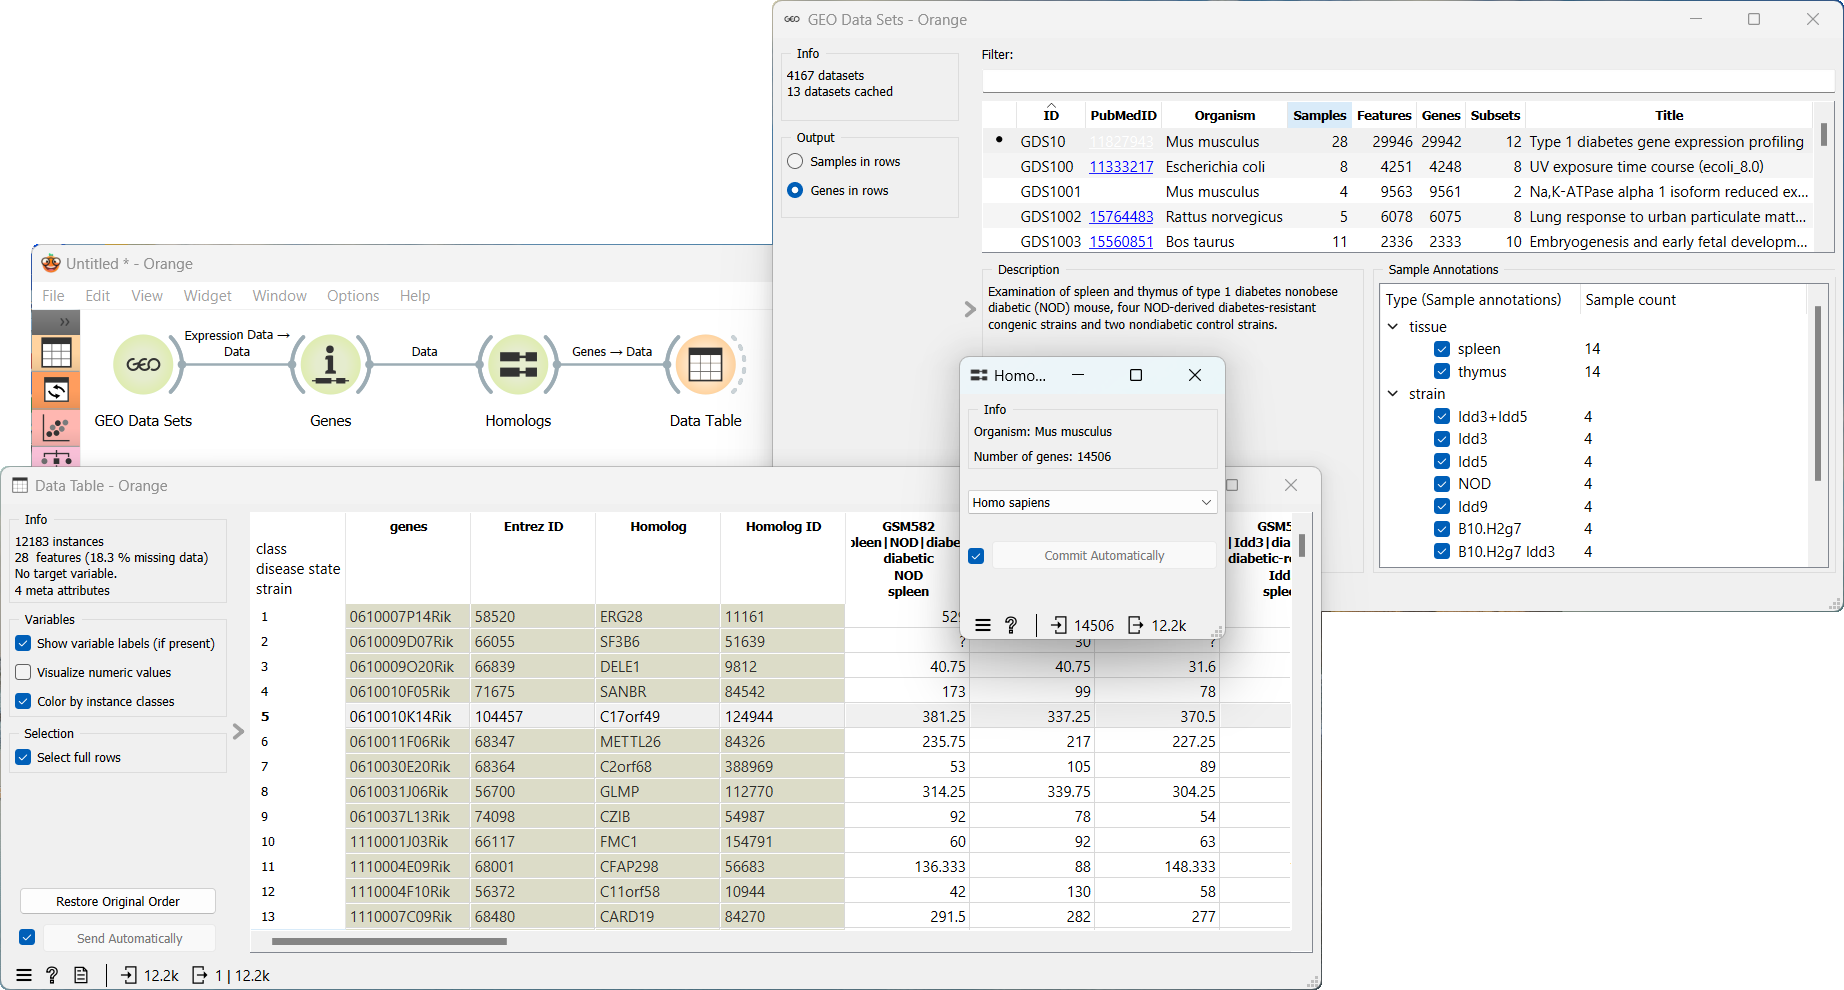
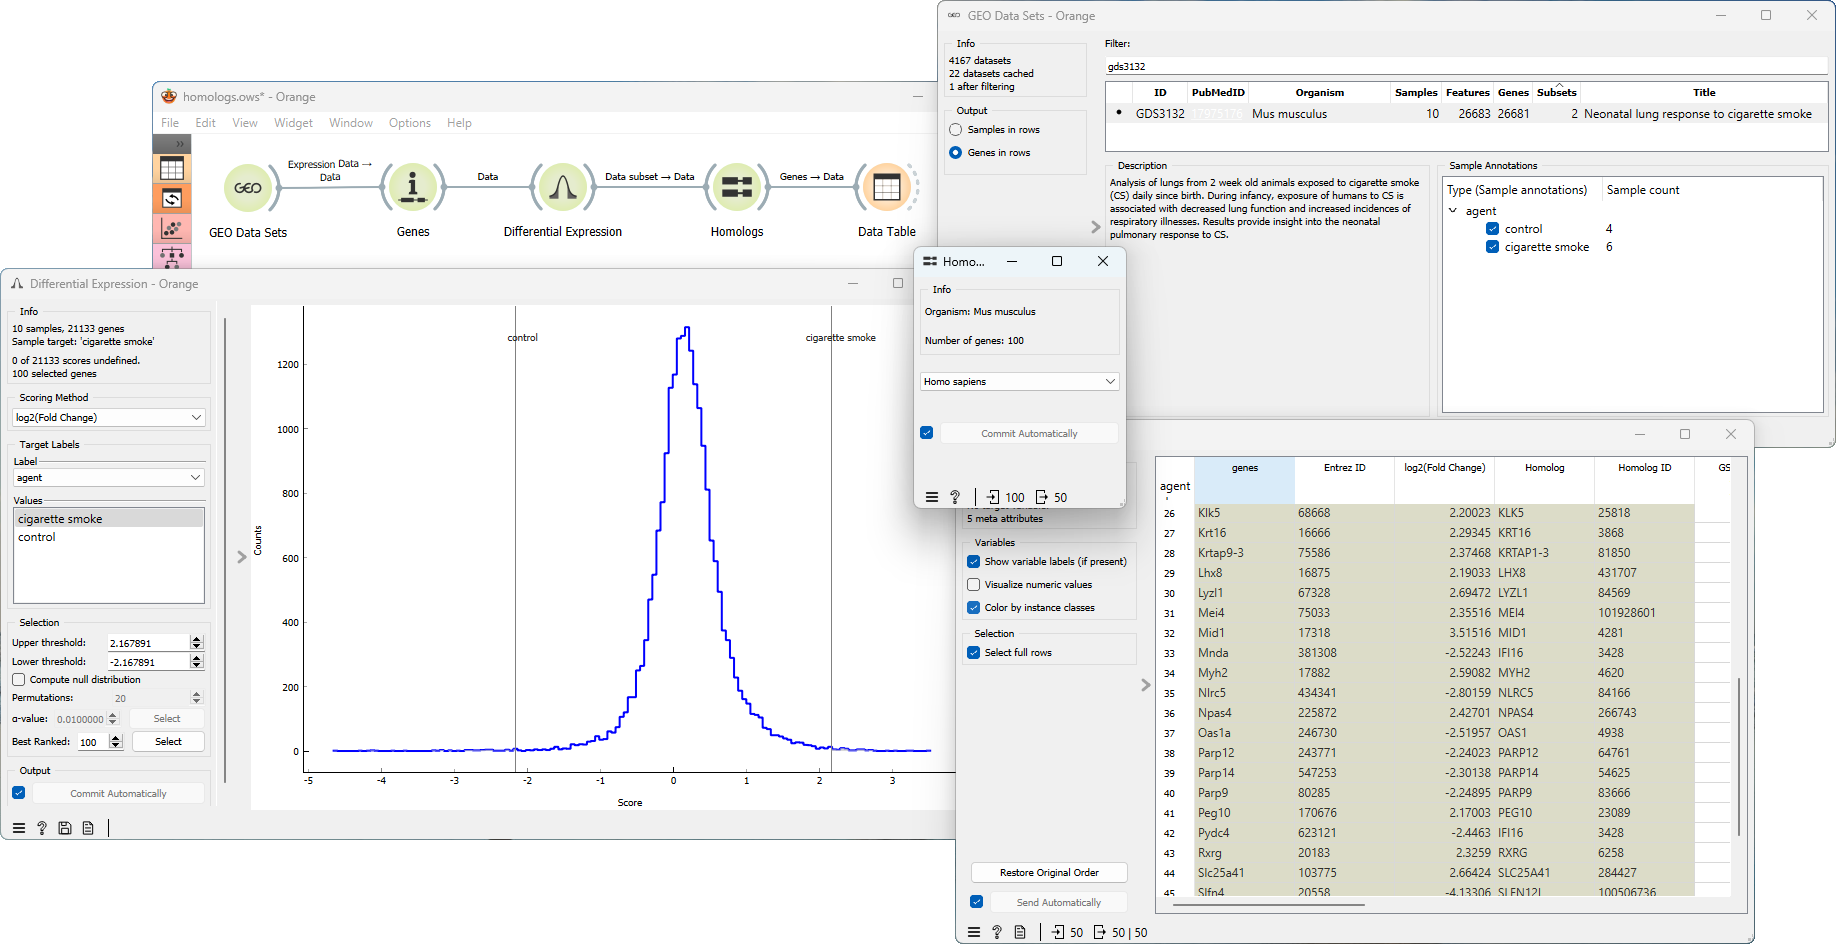
Updated homologs documentation

diff --git a/doc/widgets/homologs.md b/doc/widgets/homologs.md
@@ -22,7 +22,7 @@ The **Homologs** widget finds homologs to genes in the input data set for the se
 Example
 -------
 
-From the **GEO Data Sets** widget we select the [GDS10](https://pubmed.ncbi.nlm.nih.gov/11827943/) data set for type 1 diabetes gene expression profiling in mice (*Mus musculus*). Next, we annotate the genes using the **Genes** widget. We then connect the **Genes** and **Homologs** widgets and select the organism of interest. The output of the **Homologs** widget is a list of homologs to the genes in the input data set. Next, we connect the **Homologs** widget to the **Data Table** widget. This allows us to efficiently inspect and work with information specifically related to homologous genes.
+From the **GEO Data Sets** widget we select the [GDS3132](https://pubmed.ncbi.nlm.nih.gov/17975176/) data set for neonatal lung response to cigarette smoke expression profiling in mice (*Mus musculus*). Next, we annotate the genes using the **Genes** widget. We then connect the **Genes** and **Differential Expression** widgets to inspect the differentially expressed genes. We select the top 100 genes and feed the data to **Homologs** widget and select the organism of interest, in our case *Homo Sapiens*. The output is a list of homologs to the genes in the input data set. Next, we connect the **Homologs** widget to the **Data Table** widget. This allows us to efficiently inspect and work with information specifically related to homologous genes.
 
 
 ![](images/homologs/Homologs-Example.png)
